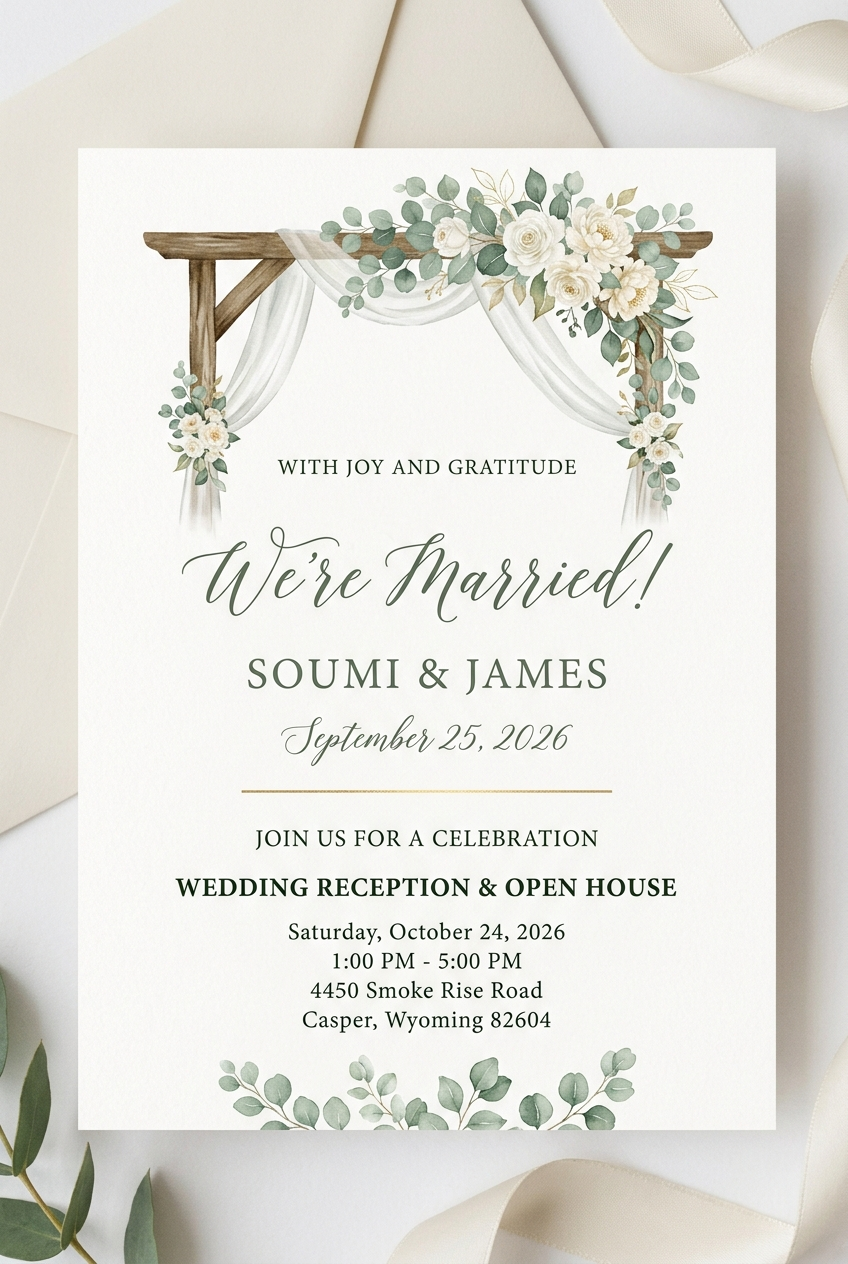
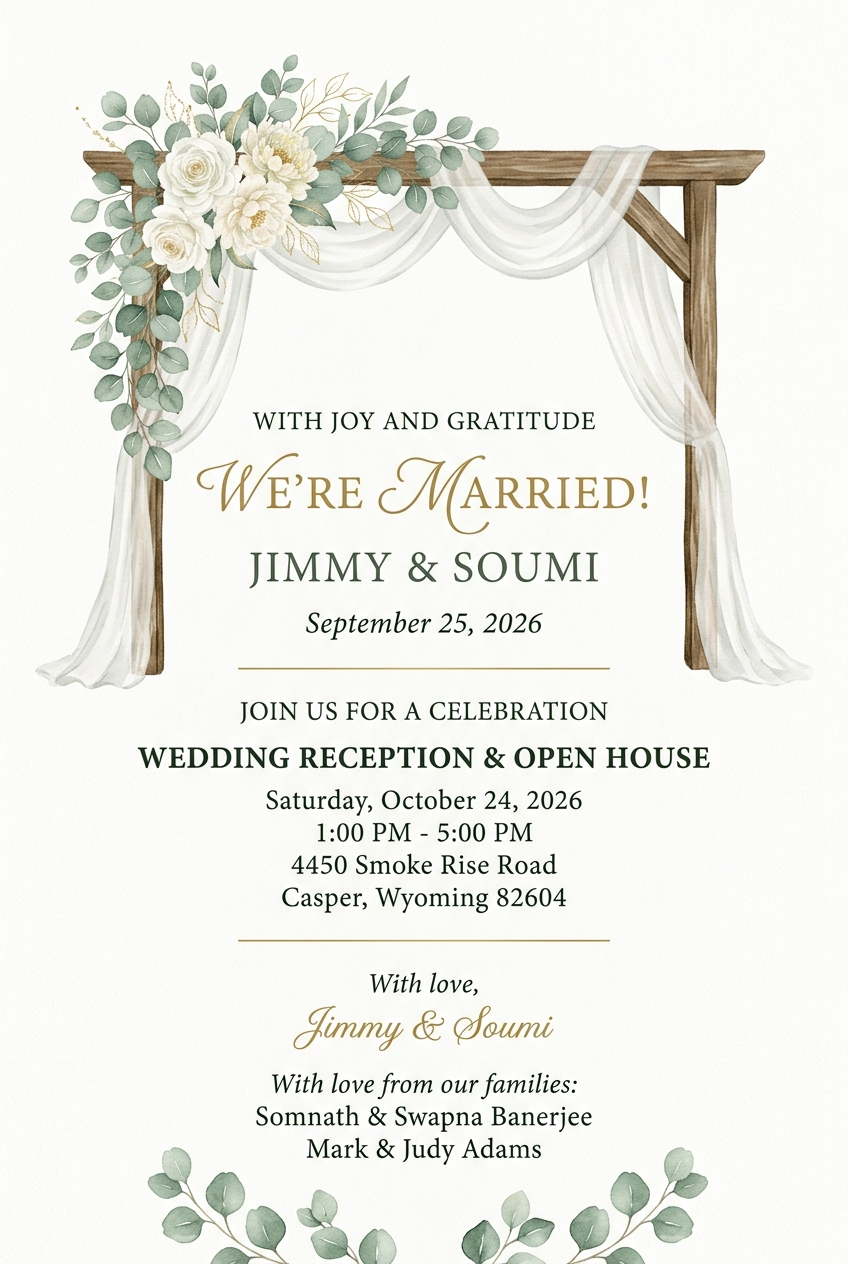
Now the "With love" section is perfectly clear — **"Jimmy & Soumi"**, **"Somnath & Swapna Banerjee"**, and **"Mark & Judy Adams"** are all fully readable on the clean cream background with no distracting photo behind them.
Here are your **Facebook graphics** — both include the home address:

---

**Option 1 — Text Only** (no photo, clean botanical design)
All details + family names clearly visible.

![Text Only](https://static.prod-images.emergentagent.com/jobs/1fed53a0-2d6d-4184-bdb5-20bc5b105bf6/images/a29fe0f893b2b665a8726e2ff33737f8bee18ed2a4713df06b20ac658bf7d80b.jpeg)
**Download:** [Click here](https://static.prod-images.emergentagent.com/jobs/1fed53a0-2d6d-4184-bdb5-20bc5b105bf6/images/a29fe0f893b2b665a8726e2ff33737f8bee18ed2a4713df06b20ac658bf7d80b.jpeg)

---

**Option 2 — With Wedding Photo** (split layout)
Photo on left, details on right.

![With Photo](https://static.prod-images.emergentagent.com/jobs/1fed53a0-2d6d-4184-bdb5-20bc5b105bf6/images/b3218b24d85fcaf30f02a444d09d11e8a447c13f224940ea831bcfe2bd10868e.jpeg)
**Download:** [Click here](https://static.prod-images.emergentagent.com/jobs/1fed53a0-2d6d-4184-bdb5-20bc5b105bf6/images/b3218b24d85fcaf30f02a444d09d11e8a447c13f224940ea831bcfe2bd10868e.jpeg)

---

Also updated:
- **Invite card** (`invite-v2.jpg`) now includes "With love from our families: Somnath & Swapna Banerjee, Mark & Judy Adams"
- **Celebration page** background removed — family names now clearly readable on clean cream

Want me to tweak any of these or use your actual wedding photo in the Facebook graphic instead of the AI-generated one?

Emergent-Commit-Key: ef6ff2188f1853fb2227d1023daf944f67f5a01dbc15b3cafc32373a95d75441

diff --git a/frontend/src/pages/EventsPage.jsx b/frontend/src/pages/EventsPage.jsx
@@ -58,17 +58,8 @@ const EventsPage = () => {
         </div>
       </div>
 
-      {/* Rest of page with subtle background */}
-      <div className="relative">
-        <div 
-          className="absolute inset-0 bg-cover bg-center bg-no-repeat"
-          style={{
-            backgroundImage: `url('https://customer-assets-gfyr7b9c.emergentagent.net/job_1fed53a0-2d6d-4184-bdb5-20bc5b105bf6/artifacts/u7x23dwd_1000051453.jpeg')`,
-          }}
-        >
-          <div className="absolute inset-0 bg-[#faf8f4]/92" />
-        </div>
-
+      {/* Rest of page */}
+      <div className="relative bg-[#faf8f4]">
         <div className="relative z-10 max-w-4xl mx-auto px-6 py-16">
           {/* Leaf Decorations */}
           <EucalyptusBranch className="absolute top-8 left-0 w-20 md:w-28 h-auto text-[#8a9a7c]" />
